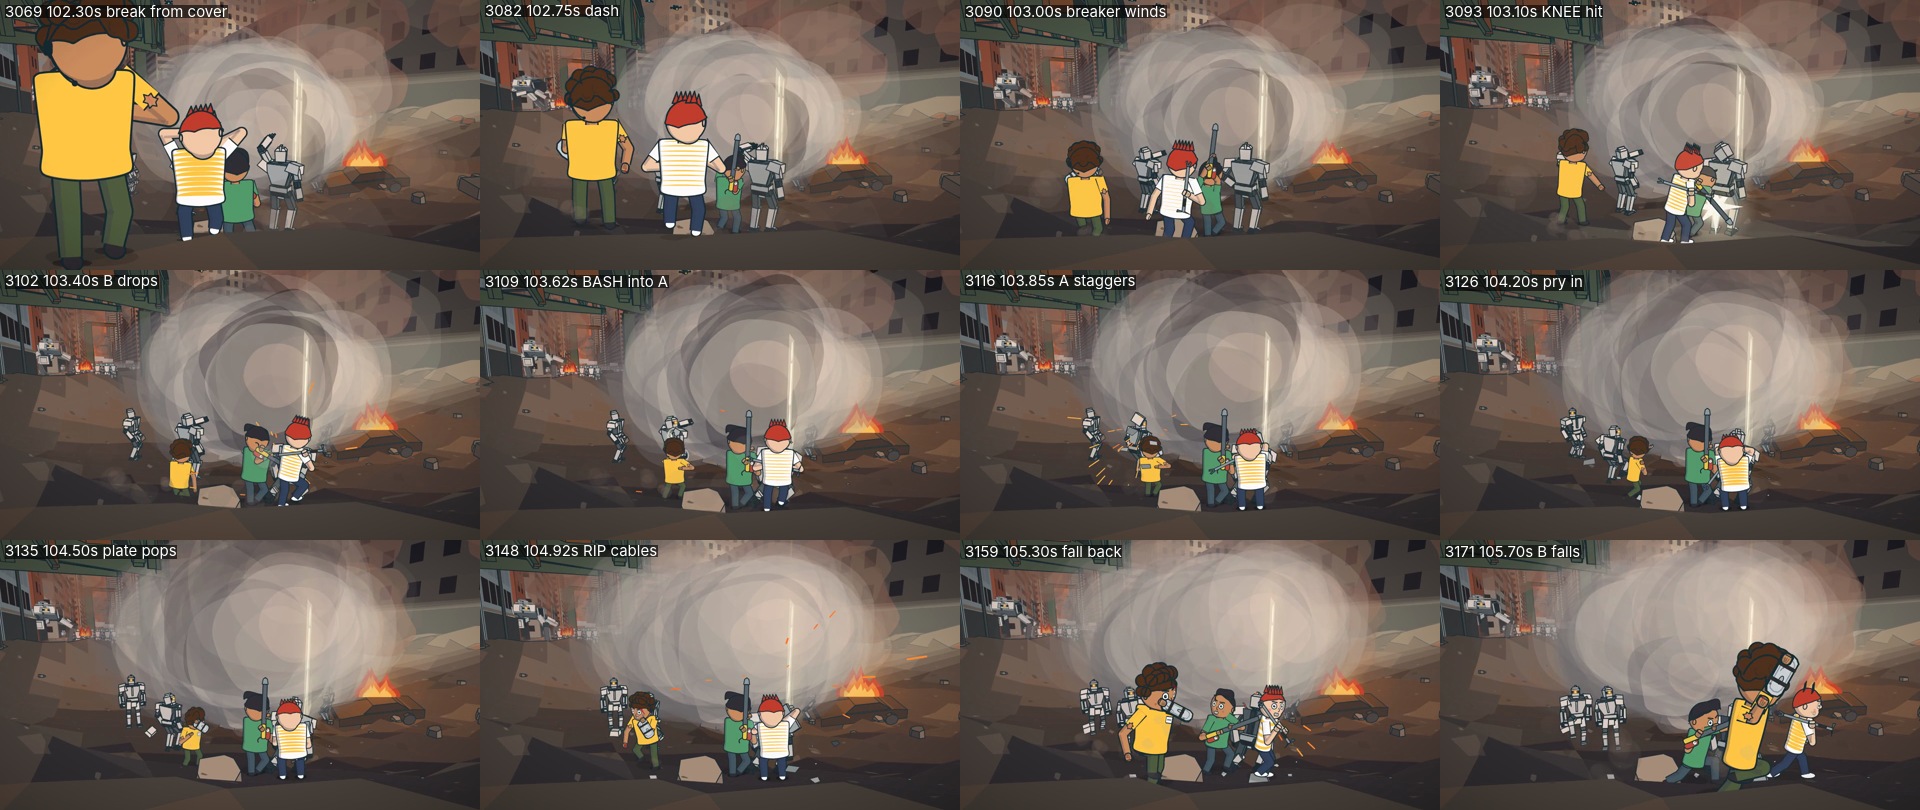
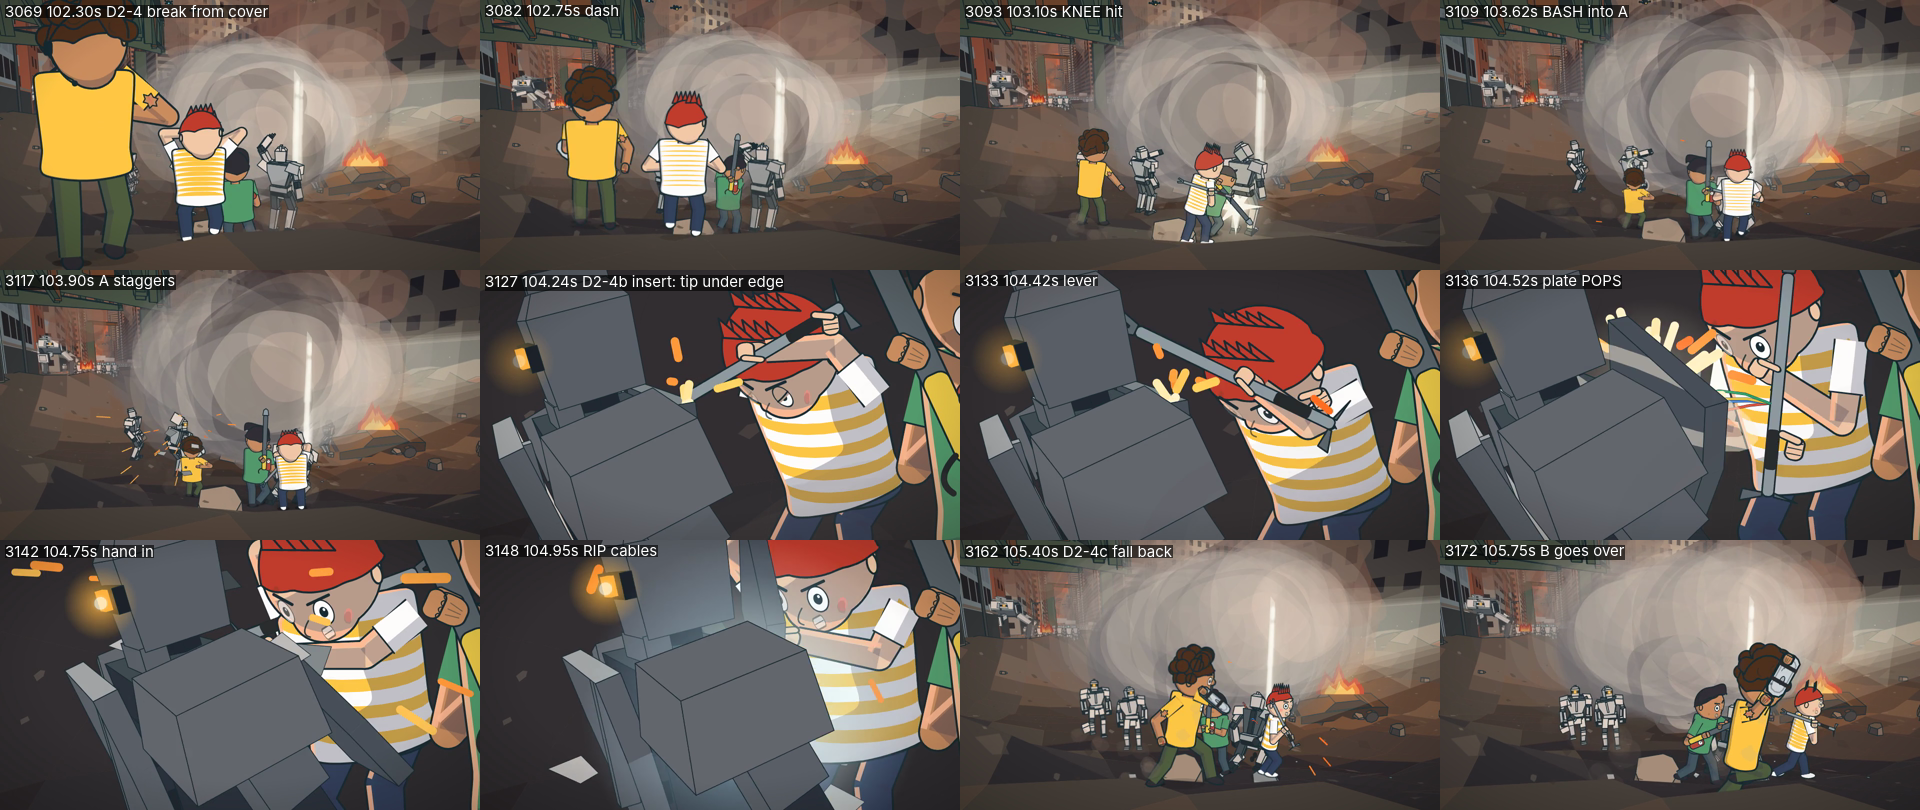
The Last Choice R2: D2-4 tight pry insert; section D2 accepted
Claude-Session: https://claude.ai/code/session_019a8XshjFgWRBShXtMZ8MbH

diff --git a/Future_Got_Weird/the-last-choice/source/src/r2/shots/D2/cues.ts b/Future_Got_Weird/the-last-choice/source/src/r2/shots/D2/cues.ts
@@ -96,17 +96,17 @@ export const CUES_D2: Cue[] = [
   {t: 103.85, kind: 'robot_step_heavy', gain: -4, pan: -0.21, dist: 0.51},
   // ---- D2-4b insert (104.20–105.25), tight on B's back plate: the tip under the edge, the lever, the pop, the rip
   {t: 104.18, kind: 'heavy_stomp', gain: -11, pan: -0.63, dist: 1.00},
-  {t: 104.24, kind: 'armor_hit', gain: -9, pan: -0.66, dist: 0.00, rate: 1.3},
+  {t: 104.24, kind: 'armor_hit', gain: -9, pan: -0.17, dist: 0.00, rate: 1.3},
   {t: 104.3, kind: 'robot_step_heavy', gain: -5, pan: 0.55, dist: 0.16},
   {t: 104.3, kind: 'cloth_move', gain: -5, pan: 0.50, dist: 0.09},
-  {t: 104.5, kind: 'halligan_pry', gain: 0, pan: -0.63, dist: 0.00},
-  {t: 104.52, kind: 'armor_hit', gain: -5, pan: -0.65, dist: 0.00},
+  {t: 104.5, kind: 'halligan_pry', gain: 0, pan: -0.13, dist: 0.00},
+  {t: 104.52, kind: 'armor_hit', gain: -5, pan: -0.14, dist: 0.00},
   {t: 104.6, kind: 'steps_gravel', gain: -5, pan: 0.55, dist: 0.00, dur: 1.1, fade: 0.2},
   {t: 104.62, kind: 'breath_exert', gain: -4, pan: 0.52, dist: 0.08},
   {t: 104.85, kind: 'heavy_stomp', gain: -8, pan: 0.55, dist: 0.98},
-  {t: 104.92, kind: 'metal_tear', gain: 0, pan: -0.40, dist: 0.00},
-  {t: 104.93, kind: 'sparks', gain: -3, pan: -0.39, dist: 0.00},
-  {t: 104.96, kind: 'elec_arc', gain: -4, pan: -0.37, dist: 0.00},
+  {t: 104.92, kind: 'metal_tear', gain: 0, pan: 0.10, dist: 0.00},
+  {t: 104.93, kind: 'sparks', gain: -3, pan: 0.11, dist: 0.00},
+  {t: 104.96, kind: 'elec_arc', gain: -4, pan: 0.13, dist: 0.00},
   // ---- D2-4c back to the wide (105.25–105.84): they fall back; B goes over
   {t: 105.18, kind: 'heavy_stomp', gain: -8, pan: 0.55, dist: 0.98},
   {t: 105.2, kind: 'steps_gravel', gain: -4, pan: 0.54, dist: 0.08, dur: 0.8, fade: 0.2, rate: 1.1},

diff --git a/Future_Got_Weird/the-last-choice/source/src/r2/shots/D3/machines.ts b/Future_Got_Weird/the-last-choice/source/src/r2/shots/D3/machines.ts
@@ -122,9 +122,9 @@ export const h1ClampPt = (T: number): V3 => {
   return lerp3s(a.knees[0], a.feet[0], 0.55);
 };
 /** the Director's bait spot on the slope west of it (he bangs the plate; the ram comes down short of him) */
-export const DIR_BAIT = {x: 57.15, z: -3.6};
+export const DIR_BAIT = {x: 58.4, z: -9.7};
 export const RAM2_AT: V3 = (() => {
-  const p = {x: 59.0, z: -4.5};
+  const p = {x: 60.45, z: -8.55};
   return {x: p.x, y: G(p.x, p.z) + 0.12, z: p.z};
 })();
 /** heavy 1's head swinging blind after the flash: up and away, then sweeping */
